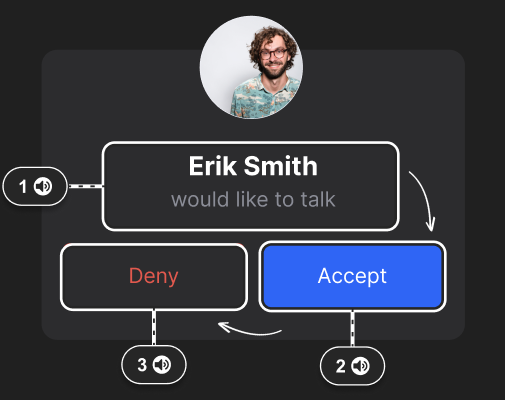
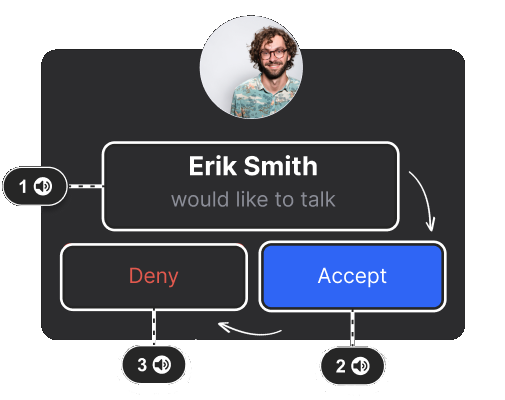
D-IDE: fix typos

diff --git a/docs/D-IDE.md b/docs/D-IDE.md
@@ -14,16 +14,16 @@
 
 ---
 
-# When to use ?
+# When to use?
 
 This module should be used with trainees who are in position of making design decisions for the product they are working on. It is mostly intended for product designers and managers, but it is relevant in some scenarios to also include developers, especially for smaller teams.
 
 # Description
 
-## What is an inclusive app ?
+## What is an inclusive app?
 
 
-Using the [Cambridge's dictionary's definition](https://dictionary.cambridge.org/dictionary/english/inclusiveness), we defined inclusiveness as **the quality of including many different types of people and treating them all fairly and equally**. From there, we have to ask ourselves: what is an inclusive app?
+Using the [Cambridge dictionary's definition](https://dictionary.cambridge.org/dictionary/english/inclusiveness), we defined inclusiveness as **the quality of including many different types of people and treating them all fairly and equally**. From there, we have to ask ourselves: what is an inclusive app?
 
 Put simply, we can define an inclusive application as one that can not only be used completely, comfortably and safely by all users, but also in which they can all thrive, feel welcome and express themselves.
 
@@ -31,7 +31,7 @@ It is thus crucial for designers and product leads to always keep in mind that t
 
 Making an inclusive app is thus taking care of everyone, including minorities.
 
-For every feature, every interface, every content that you are building, always ask yourself : is this element inclusive ? Are there human characteristics that could prevent a user from understanding, interacting, or even feeling well with the provided content ?
+For every feature, every interface, every content that you are building, always ask yourself: is this element inclusive? Are there human characteristics that could prevent a user from understanding, interacting, or even feeling well with the provided content?
 
 Here is a *non-exhaustive* list of human characteristics to keep in mind in order to include as many people as possible :
 
@@ -60,7 +60,7 @@ Product design documents, including specifications, user stories and prototypes 
 
 ![Picture in black of white of cars driving under a bridge](ressources/d-designing-inclusive-and-accessible-software/bridge.png)
 
-You can see on this picture a bridge that, at first, might seem ordinary. Can you guess what’s wrong with it ? In [*Do artifacts have politics ?*](https://faculty.cc.gatech.edu/~beki/cs4001/Winner.pdf), Langdon Winner explains that those bridges on Long Island were built low, so that buses were too high to pass them. Therefore, people who did not have a car - the least wealthy, and especially African-Americans - were denied access to the parkway to the public beaches. A technical segregation.
+You can see on this picture a bridge that, at first, might seem ordinary. Can you guess what’s wrong with it? In [*Do artifacts have politics?*](https://faculty.cc.gatech.edu/~beki/cs4001/Winner.pdf), Langdon Winner explains that those bridges on Long Island were built low, so that buses were too high to pass them. Therefore, people who did not have a car - the least wealthy, and especially African-Americans - were denied access to the parkway to the public beaches. A technical segregation.
 
 And the same goes with software: if a messaging app denies access to some features to groups of users, it excludes them by preventing them to connect.
 
@@ -83,14 +83,19 @@ That said, from our perspective, thinking UI and AUI as two distinct interfaces 
 
 We thus prefer to think an inclusive user interface (IUI) as a whole UI that maximizes the different ways it can be interacted with, in order to allow the greatest variety of particular experiences and to satisfy as many needs as possible.
 
-![The first half of the drawing represents two rectangles, representing respectively a UI and an AUI. Circles representing the “able-bodied users” are pointing to the UI with an arrow. Diamonds representing the “disabled users” are pointing to the AUI with an arrow.
-The second half represents different shapes representing the diversity of users, pointing to the same IUI which is made by overlaying many UIs, regrouped as one.](ressources/d-designing-inclusive-and-accessible-software/iui.png)
+
+
+<figure markdown="span">
+    ![The first half of the drawing represents two rectangles, representing respectively a UI and an AUI. Circles representing the “able-bodied users” are pointing to the UI with an arrow. Diamonds representing the “disabled users” are pointing to the AUI with an arrow.
+    The second half represents different shapes representing the diversity of users, pointing to the same IUI which is made by overlaying many UIs, regrouped as one.](ressources/d-designing-inclusive-and-accessible-software/iui.png){ width=700 }
+</figure>
+
 
 From a designer’s perspective, this means your interface should embed a wide set of equal ways of interacting with your app.
 
 ## Designing an IUI
 
-Now, how do you concretely make an IUI ?
+Now, how do you concretely make an IUI?
 
 It is important to know that there is no *unique* way of designing inclusive interfaces, and that it is a slow and continuous work, rather than a one-time effort. Inclusiveness recommendations can never be exhaustive.
 
@@ -98,9 +103,13 @@ With that said, here is a non-exhaustive list to start with to make your app mor
 
 ### The colors are contrasted
 
+
 The most common and easiest to apply advice that is given to designer is to make sure the colors they use are contrasted. This is important not only for people who are colorblind or use a screen filter, but also to guarantee readability on as many screens and conditions as possible. Many tools like [Figma plug-ins](https://www.figma.com/community/plugin/748533339900865323/contrast) or [websites](https://www.figma.com/color-contrast-checker/?background=ffffff&foreground=b50202) can help you check if your colors are well contrasted, or even look for contrast errors in your designs.
 
-![Two sample texts with different fill and background colors, showing one example of good contrast, and one of bad constrast.](ressources/d-designing-inclusive-and-accessible-software/contrast.png)
+<figure markdown="span">
+    ![Two sample texts with different fill and background colors, showing one example of good contrast, and one of bad constrast.](ressources/d-designing-inclusive-and-accessible-software/contrast.png){ width=500 }
+</figure>
+
 
 ### The colors are not necessary to understanding the UI
 
@@ -112,17 +121,20 @@ Some people need or prefer having on their devices custom (typically bigger) fon
 
 There usually is not pre-made answer on how to adapt the UI, but the issue can typically be solved by working on an alternate layout. For example, a common fix for cropped content (especially text) is to conditionally replace de horizontal stacks by vertical stacks, saving horizontal room for the text.
 
-![Two iPhones emulators with an information icon and a text with a large font. On the first phone, the layout is horizontal, and the text is cropped. On the second phone, the layout is vertical and the text is fully displayed.](ressources/d-designing-inclusive-and-accessible-software/bigfont.png)
+<figure markdown="span">
+    ![Two iPhones emulators with an information icon and a text with a large font. On the first phone, the layout is horizontal, and the text is cropped. On the second phone, the layout is vertical and the text is fully displayed.](ressources/d-designing-inclusive-and-accessible-software/bigfont.png){ width=600 }
+</figure>
 
 A lot of implementation frameworks provide easy ways to set a preferred size for an element, providing adaptation for scaling change.
 
 ### The content can be accessed using assistive technologies
 
-![A Figma design file with accessibility annotations for the Olvid app.](ressources/d-designing-inclusive-and-accessible-software/annotation.png)
+Designing for assistive technologies can be challenging when you don't know where to start from. In this section, we'll walk through simple steps that will get you started.
+
 
 **1 - Grouping the elements**
 
-For people who use screen readers and/or the keyboard to navigate your app, it is crucial to have the information grouped at the right level of granularity.
+![A Figma design file with accessibility annotations for the Olvid app.](ressources/d-designing-inclusive-and-accessible-software/annotation.png) For people who use screen readers and/or the keyboard to navigate your app, it is crucial to have the information grouped at the right level of granularity.
 
 - If the information is too fragmented, navigating will be slower (as it will need more user inputs) and context might be lost (as the logical link between elements will not be given for people who can’t see the information hierarchy on the screen).
 - If the information is grouped at a higher level than it should, navigating to a specific element will be harder and interactions will likely be more complicated due to the fusion of actions.
@@ -156,11 +168,14 @@ Again, depending on the platform or framework, the ways to achieve this might di
 
 **3 - Establishing a focus order**
 
-![UI representing a contact request. There is a profile picture and a name which are focused first, an "accept" button which is focused second, and lastly a "deny" button. The focus order is not the same as the graphic as the left-to-right "default" order.](ressources/d-designing-inclusive-and-accessible-software/order.png)
+<figure markdown="span">
+    ![UI representing a contact request. There is a profile picture and a name which are focused first, an "accept" button which is focused second, and lastly a "deny" button. The focus order is not the same as the graphic as the left-to-right "default" order.](ressources/d-designing-inclusive-and-accessible-software/order.png)
+</figure>
+
 
 When your elements are grouped and labelled, the last step to make your interface accessible to people who use assistive technologies and/or the keyboard to use your app is to decide the focus order.
 
-Let’s say we are working on an application implementing a chat. When entering a discussion, which element should be focused first ? The last message, the title of the discussion, the text input ?
+Let’s say we are working on an application implementing a chat. When entering a discussion, which element should be focused first? The last message, the title of the discussion, the text input?
 
 There often is no way of predicting which answer is the best. It really comes down to testing what is the most navigable, understandable and interactable.
 
